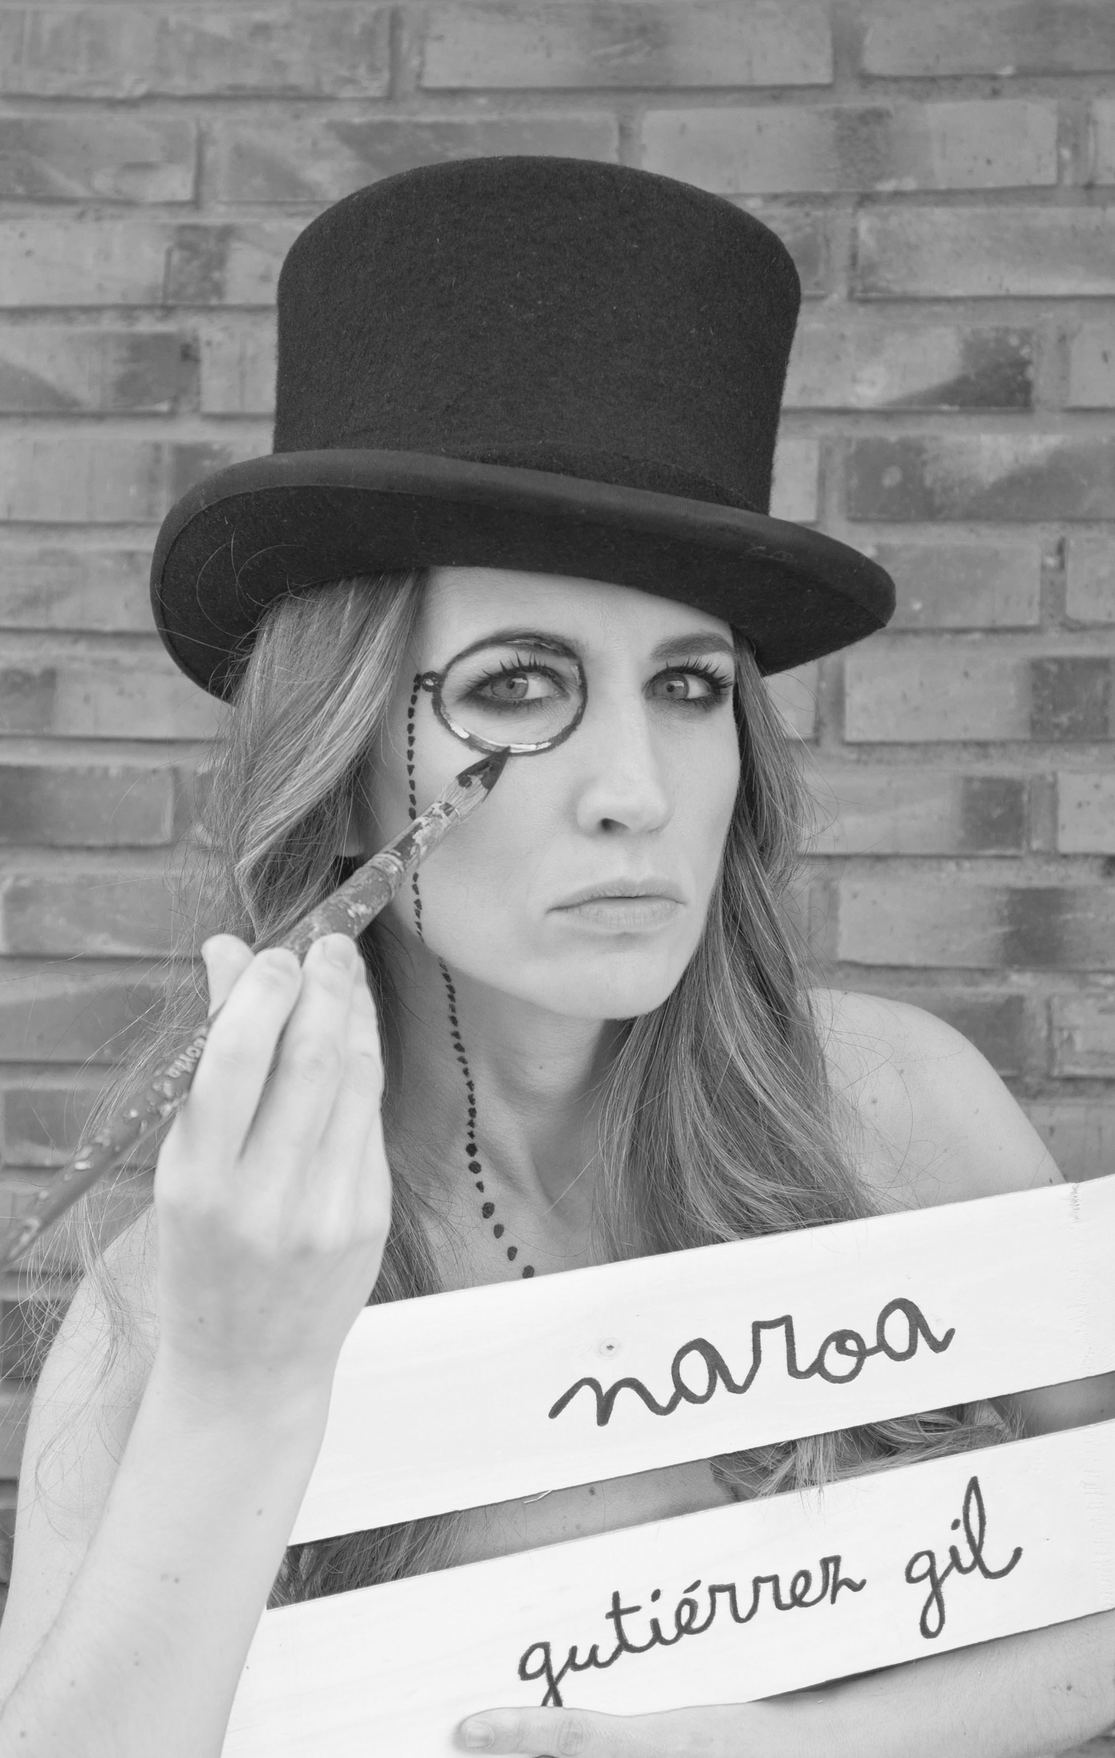
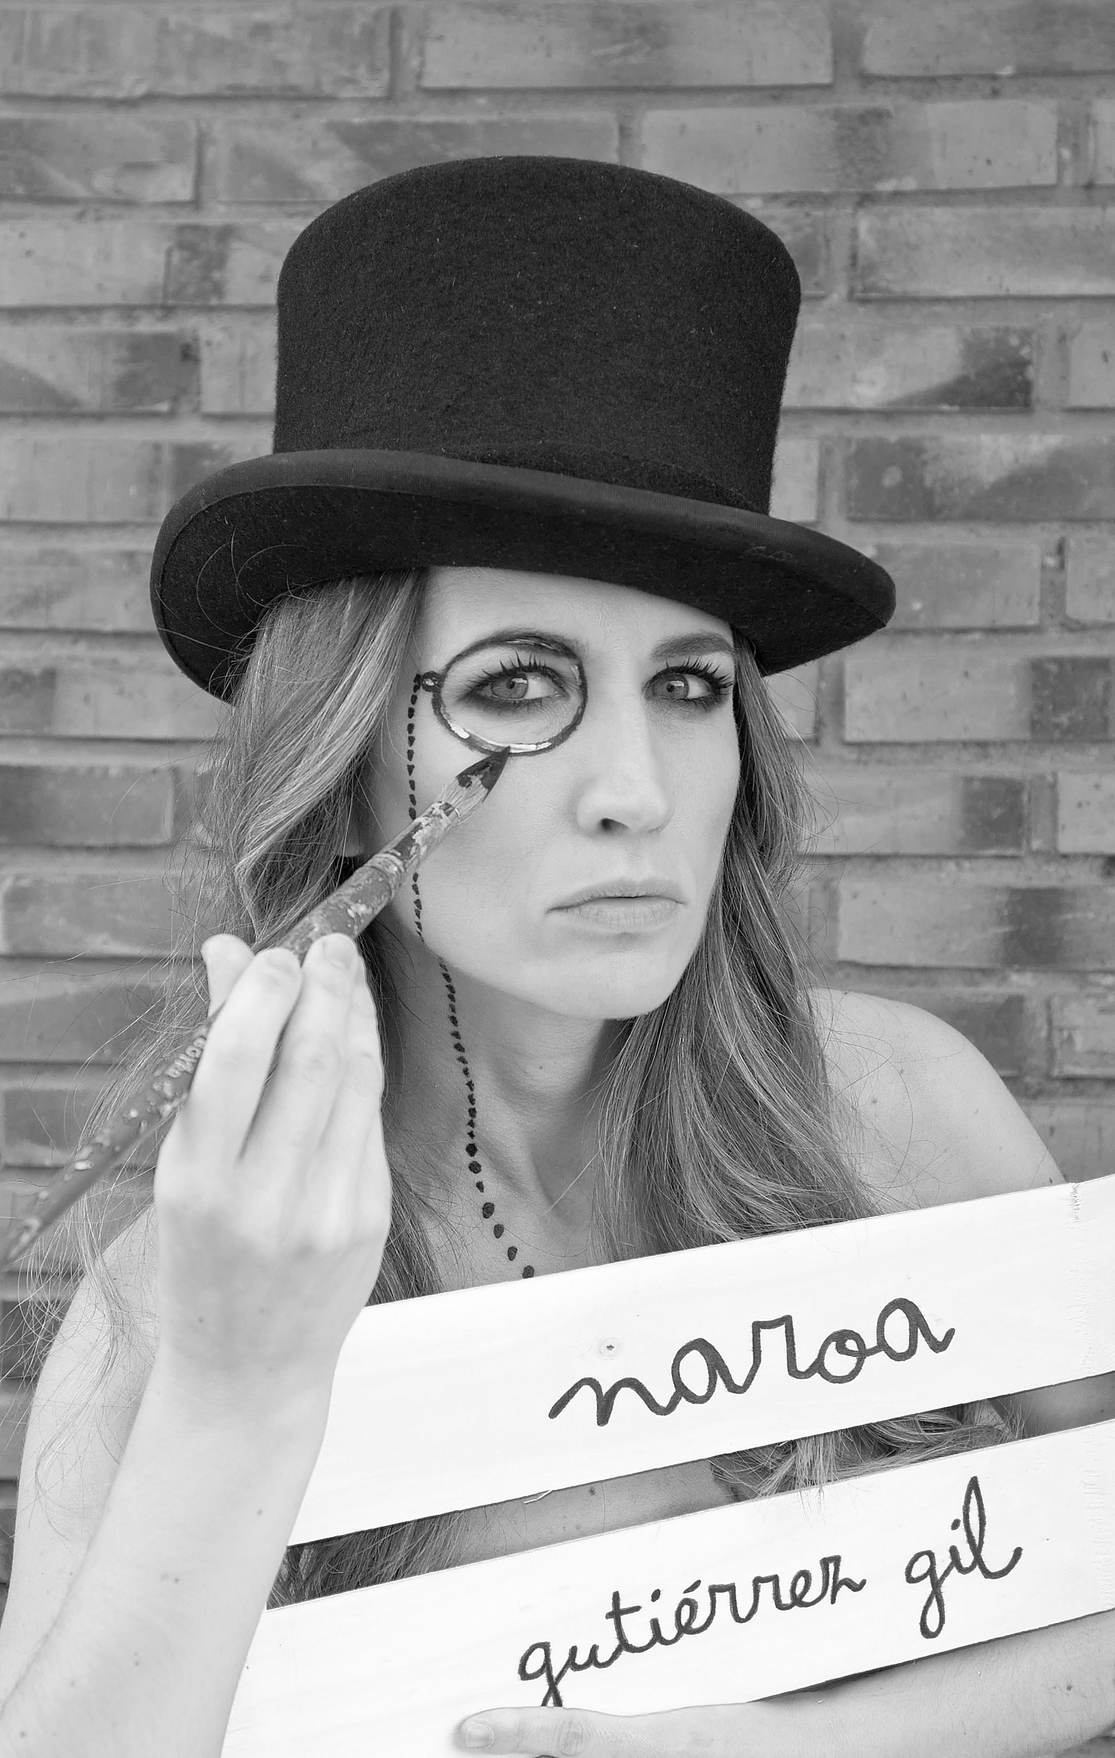
feat(assets): update 4K master portraits and responsive srcset for hero threshold overture

diff --git a/tools/build_immersive_site.py b/tools/build_immersive_site.py
@@ -46,7 +46,7 @@ def build(output):
     jobs = {}
     originals = set()
 
-    def derivative(src, limit=1800, thumb=False):
+    def derivative(src, limit=1800, thumb=False, quality=None):
         source = SOURCE / src.lstrip("/")
         if not source.is_file():
             raise FileNotFoundError(f"Reviewed image missing: {src}")
@@ -54,7 +54,8 @@ def build(output):
         variant = "thumb" if thumb else "view" if limit == 1800 else f"view-{limit}"
         name = f"{source.stem}-{digest}-{variant}.webp"
         dest = media / name
-        jobs[dest] = (source, limit, 72 if thumb else 80)
+        q = quality if quality is not None else (72 if thumb else 88)
+        jobs[dest] = (source, limit, q)
         originals.add(src)
         return "/immersive/media/" + name
 
@@ -104,8 +105,8 @@ def build(output):
         original_order.setdefault(im.get("work_slug", im.get("slug")), len(catalogue["projects"]) + i)
     projects.sort(key=lambda p: (0, first[p["slug"]]) if p["slug"] in first else (1, original_order[p["slug"]]))
     assert len(projects) == len(known)
-    portrait = derivative("/images/sobre-mi/naroa-monoculo.jpg", 3468)
-    portrait_wink = derivative("/images/sobre-mi/naroa-monoculo-guino.png")
+    portrait = derivative("/images/sobre-mi/naroa-monoculo.jpg", 3468, quality=94)
+    portrait_wink = derivative("/images/sobre-mi/naroa-monoculo-guino.png", 3468, quality=94)
     cantinflowers = derivative("/images/trayectoria/cantinflowers.jpg")
     journey = read_data("journey")
     assert [scene["slug"] for scene in journey["scenes"]] == [p["slug"] for p in projects], "Camera score must cover the ordered catalogue exactly"
@@ -315,7 +316,7 @@ def build(output):
         )
         threshold_html = ""
         if path == "/" and initial == 0:
-            threshold_html = f'''<div class="hero-threshold" data-hero-threshold data-threshold-enter aria-hidden="true"><div class="hero-threshold-plane" data-threshold-plane><img class="hero-threshold-portrait" src="{menu_portrait}" width="900" height="1418" alt="Naroa Gutiérrez Gil con chistera y monóculo en el umbral del estudio" decoding="async"><img class="hero-threshold-wink" data-threshold-wink src="{menu_portrait_wink}" width="900" height="1418" alt="Guiño de bienvenida de Naroa Gutiérrez Gil" decoding="async"></div><div class="hero-threshold-shade"></div></div>'''
+            threshold_html = f'''<div class="hero-threshold" data-hero-threshold data-threshold-enter aria-hidden="true"><div class="hero-threshold-plane" data-threshold-plane><img class="hero-threshold-portrait" src="{portrait}" srcset="{menu_portrait} 900w, {portrait} 2201w" sizes="100vw" width="2201" height="3468" alt="Naroa Gutiérrez Gil con chistera y monóculo en el umbral del estudio" fetchpriority="high" decoding="sync"><img class="hero-threshold-wink" data-threshold-wink src="{portrait_wink}" srcset="{menu_portrait_wink} 900w, {portrait_wink} 2201w" sizes="100vw" width="2201" height="3468" alt="Guiño de bienvenida de Naroa Gutiérrez Gil" decoding="async"></div><div class="hero-threshold-shade"></div></div>'''
         body = f'''<main id="main" class="art-scroll" style="--steps:{len(selected)-1}"><section class="art-stage" data-gallery data-initial="{initial}" data-subset="{subset}"><div class="art-layers">{stages}</div>{threshold_html}<div class="art-shade" aria-hidden="true"></div><div class="kinetic-title" data-kinetic-title aria-hidden="true"></div><nav class="art-index" aria-label="Recorrido de obras">{nav}</nav><div class="art-bottom"><div><div data-art-copy aria-live="polite"><p class="art-counter"><span data-counter>{initial+1:02d} / {len(selected):02d}</span><small data-journey-cue>Desplázate para recorrer ↕</small></p><h1 data-art-title>{esc(p['title'])}</h1><p class="art-material" data-art-material>{esc(p['label'])}</p></div><button type="button" class="art-story-link" data-open-story>Sobre esta obra <span aria-hidden="true">+</span></button></div><div class="art-controls"><div class="art-view-actions"><button type="button" data-effects aria-pressed="false">Activar efectos</button><button type="button" data-fit aria-pressed="false">Ver imagen completa ↗</button><button type="button" data-open-photos>Otras miradas ↗</button><button type="button" class="ouroboros-loop-btn" data-ouroboros hidden aria-label="Volver al origen de la exposición">Volver al origen ↺</button></div><div class="art-arrows"><button type="button" data-prev aria-label="Obra anterior"{' disabled' if initial==0 else ''}>←</button><button type="button" data-next aria-label="Obra siguiente"{' disabled' if initial==len(selected)-1 else ''}>→</button></div></div></div><button type="button" class="restore-ui" data-restore hidden>Volver a la navegación ↙</button><div class="art-progress" aria-hidden="true"><span></span></div></section></main>
 <dialog id="story-dialog" class="story-dialog" aria-labelledby="story-title"><div class="dialog-top"><span data-story-category>{esc(p['label'])}</span><button type="button" data-close-dialog>Cerrar ×</button></div><div class="story-body"><h2 id="story-title">{esc(p['title'])}</h2><p data-story>{esc(p['story'])}</p><dl data-facts>{facts_html}</dl><p class="art-credit" data-credit>{esc(p['credit'] or '')}</p><div class="story-actions"><a class="text-link" data-art-email href="mailto:naroa@naroa.eu?subject={quote('Consulta sobre '+p['title'])}">Consultar por email ↗</a><a class="text-link" data-art-whatsapp href="https://wa.me/34636060609?text={quote('Hola Naroa, me gustaría consultar sobre la obra ' + p['title'])}" target="_blank" rel="noopener noreferrer">Consultar por WhatsApp ↗</a><button type="button" class="text-link" data-share-link>Compartir enlace directo ↗</button></div><a class="source-link" data-art-video{' hidden' if not p.get('video') else ''} href="{esc(p.get('video') or '')}" target="_blank" rel="noopener noreferrer">Ver proceso en YouTube ↗</a><a class="source-link" data-art-source{' hidden' if not p['source'] else ''} href="{esc(p['source'] or '')}" target="_blank" rel="noopener noreferrer">Ver publicación de la artista ↗</a></div><a class="story-footer" href="/retratos-por-encargo-bilbao/">Tu propio retrato empieza aquí ↗</a></dialog>
 <dialog id="photos-dialog" class="photos-dialog" aria-labelledby="photos-heading"><div class="dialog-top"><span id="photos-heading">{esc(p['title'])}</span><button type="button" data-close-dialog>Cerrar ×</button></div><div class="photo-view"><button type="button" data-photo-prev aria-label="Fotografía anterior">←</button><img data-photo-image data-src="{p['photos'][0]['src']}" alt="{esc(work_alt(p, p['photos'][0]['caption']))}" decoding="async"><button type="button" data-photo-next aria-label="Fotografía siguiente">→</button></div><p data-photo-caption aria-live="polite"></p></dialog>'''
@@ -693,90 +694,110 @@ def build(output):
     commissions += f'''<article class="editorial" id="contenido"><section class="chapter"><p class="eyebrow">Retrato de autor a partir de tu historia</p><div><h2>Más allá de<br>una fotografía.</h2><p class="lead">Encarga un retrato personalizado en Bilbao con Naroa Gutiérrez Gil a partir de tu historia o fotografías. Obras originales de autor sobre pizarra natural, collage, madera y objetos intervenidos, con presupuesto cerrado previo y entrega local en mano o envío protegido.</p><p>Puedes partir de una fotografía, un recuerdo o un objeto con significado para encargar una pieza hecha a mano y pensada para quien la recibe. Es una práctica de retrato que continúa la exploración iniciada en muestras individuales en Bilbao como <em>Espejos del alma</em> (Colegio de Abogados de Bilbao), valorando en el taller el soporte que mejor cuente esa historia: pizarra con contornos naturales, composiciones de dibujo y tela vaquera, o cajas de madera personalizadas.</p></div></section><section class="commission-examples-section" aria-labelledby="commission-examples-heading"><div class="section-opening"><p class="eyebrow">Soportes reales del catálogo</p><h2 id="commission-examples-heading">Tres maneras de dar<br>forma a un retrato.</h2><p>Cada pieza cuenta con fotografías de conjunto, ángulo y detalle real del soporte en el archivo de Naroa.</p></div><div class="commission-examples">{examples_html}</div></section><section class="chapter" aria-labelledby="commission-specs-heading"><p class="eyebrow">Ficha técnica de encargos</p><div><h2 id="commission-specs-heading">Materiales, formatos<br>y condiciones reales.</h2>{specs_html}</div></section><section class="commission-steps" aria-label="Proceso de encargo"><article><span>01</span><h3>Me cuentas tu idea y tu foto.</h3><p>A quién quieres retratar, si es para regalar y qué historia u objetos le definen. Puedes adjuntar fotografías de referencia.</p></article><article><span>02</span><h3>Propuesta, materiales y presupuesto.</h3><p>Acordamos técnica, formato, orientación de precio y plazo de entrega antes de comenzar la obra.</p></article><article><span>03</span><h3>El retrato cobra vida en el estudio.</h3><p>Compartimos imágenes del proceso mientras el dibujo, la pizarra o el collage van tomando forma.</p></article><article><span>04</span><h3>Entrega en Bilbao o envío.</h3><p>Acordamos la entrega en mano en Bilbao y Bizkaia o el envío preparado según el soporte y los materiales.</p></article></section>{configurator_html}<section class="commission-faq" aria-labelledby="commission-faq-heading"><div class="section-opening"><p class="eyebrow">Dudas frecuentes antes de encargar</p><h2 id="commission-faq-heading">Precios, fotos<br>y plazos.</h2></div><div class="commission-faq-list">{faq_html}</div></section><div class="closing"><p class="hand">¿A quién te gustaría retratar?</p><a class="text-link" href="https://wa.me/34636060609?text=Hola%20Naroa%2C%20me%20gustar%C3%ADa%20consultar%20un%20retrato%20personalizado%20por%20encargo." target="_blank" rel="noopener noreferrer">Hablar por WhatsApp directo ↗</a><a class="text-link" href="mailto:naroa@naroa.eu?subject=Solicitud%20de%20presupuesto%20para%20retrato%20por%20encargo">Solicitar presupuesto por email ↗</a><a class="text-link" href="/obra/#indice">Explorar las {len(projects)} obras del catálogo ↗</a></div></article>'''
     commissions_schema = {
         "@context": "https://schema.org",
-        "@type": ["Service", "ProfessionalService"],
-        "@id": ORIGIN + "/retratos-por-encargo-bilbao/#service",
-        "name": "Retratos personalizados por encargo en Bilbao y Bizkaia",
-        "serviceType": "Retratos artísticos de autor sobre pizarra, collage, madera y objetos",
-        "url": ORIGIN + "/retratos-por-encargo-bilbao/",
-        "inLanguage": "es-ES",
-        "dateModified": catalogue["reviewed"],
-        "description": "Encarga un retrato personalizado en Bilbao con Naroa Gutiérrez Gil. Piezas originales hechas a mano a partir de fotografía e historia personal: pizarra natural, collage, madera y técnica mixta con presupuesto cerrado previo.",
-        "image": [ORIGIN + ex["photos"][0]["original"] for ex, _, _ in commission_examples],
-        "provider": {
-            "@type": "Person",
-            "@id": ORIGIN + "/#artist",
-            "name": "Naroa Gutiérrez Gil",
-            "jobTitle": "Artista plástica y retratista",
-            "url": ORIGIN + "/",
-            "sameAs": artist_same_as,
-            "homeLocation": bilbao_place,
-        },
-        "providerMobility": "dynamic",
-        "address": {
-            "@type": "PostalAddress",
-            "addressLocality": "Bilbao",
-            "addressRegion": "Bizkaia",
-            "addressCountry": "ES",
-        },
-        "geo": {
-            "@type": "GeoCoordinates",
-            "latitude": 43.2630,
-            "longitude": -2.9350,
-        },
-        "hasMap": "https://www.google.com/maps?q=Bilbao,+Bizkaia",
-        "areaServed": [
-            {"@type": "City", "name": "Bilbao", "sameAs": "https://es.wikipedia.org/wiki/Bilbao"},
-            {"@type": "AdministrativeArea", "name": "Bizkaia", "sameAs": "https://es.wikipedia.org/wiki/Vizcaya"},
-            {"@type": "Country", "name": "España", "sameAs": "https://es.wikipedia.org/wiki/Espa%C3%B1a"},
-        ],
-        "knowsAbout": [
-            "Retrato sobre pizarra natural rústica",
-            "Técnica mixta con escamas de mica mineral y esmalte",
-            "Collage contemporáneo y textil sobre madera",
-            "Retrato al óleo y dibujo a lápiz",
-            "Cajas personalizadas y objetos intervenidos",
-        ],
-        "hasOfferCatalog": {
-            "@type": "OfferCatalog",
-            "name": "Formatos y técnicas de retratos personalizados",
-            "itemListElement": [
-                {
-                    "@type": "Offer",
-                    "itemOffered": {
-                        "@type": "Service",
-                        "name": "Retrato sobre pizarra natural de cantera",
-                        "description": "Retrato artístico en técnica mixta (acrílico, mica y esmaltes) sobre plato rústico de pizarra natural (formatos habituales de 20×30 cm a 40×50 cm).",
-                    },
-                },
-                {
-                    "@type": "Offer",
-                    "itemOffered": {
-                        "@type": "Service",
-                        "name": "Retrato en dibujo, textil y collage",
-                        "description": "Composición de autor con dibujo a grafito/pastel, telas, costuras y elementos biográficos sobre madera noble o soporte rígido.",
-                    },
-                },
-                {
-                    "@type": "Offer",
-                    "itemOffered": {
-                        "@type": "Service",
-                        "name": "Caja personalizada u objeto intervenido",
-                        "description": "Objeto tridimensional de recuerdo con retrato integrado y elementos de memoria familiar en madera tratada.",
-                    },
-                },
-            ],
-        },
-        "termsOfService": "Propuesta y presupuesto cerrado previo por escrito sin compromiso. Plazo habitual de 2 a 4 semanas según secado de materiales. Entrega en mano en Bilbao o envío asegurado.",
-        "potentialAction": [
+        "@graph": [
             {
-                "@type": "CommunicateAction",
-                "name": "Solicitar presupuesto de retrato por email",
-                "target": "mailto:naroa@naroa.eu?subject=Solicitud%20de%20presupuesto%20para%20retrato%20por%20encargo",
+                "@type": ["Service", "ProfessionalService"],
+                "@id": ORIGIN + "/retratos-por-encargo-bilbao/#service",
+                "name": "Retratos personalizados por encargo en Bilbao y Bizkaia",
+                "serviceType": "Retratos artísticos de autor sobre pizarra, collage, madera y objetos",
+                "url": ORIGIN + "/retratos-por-encargo-bilbao/",
+                "inLanguage": "es-ES",
+                "dateModified": catalogue["reviewed"],
+                "description": "Encarga un retrato personalizado en Bilbao con Naroa Gutiérrez Gil. Piezas originales hechas a mano a partir de fotografía e historia personal: pizarra natural, collage, madera y técnica mixta con presupuesto cerrado previo.",
+                "image": [ORIGIN + ex["photos"][0]["original"] for ex, _, _ in commission_examples],
+                "provider": {
+                    "@type": "Person",
+                    "@id": ORIGIN + "/#artist",
+                    "name": "Naroa Gutiérrez Gil",
+                    "jobTitle": "Artista plástica y retratista",
+                    "url": ORIGIN + "/",
+                    "sameAs": artist_same_as,
+                    "homeLocation": bilbao_place,
+                },
+                "providerMobility": "dynamic",
+                "address": {
+                    "@type": "PostalAddress",
+                    "addressLocality": "Bilbao",
+                    "addressRegion": "Bizkaia",
+                    "addressCountry": "ES",
+                },
+                "geo": {
+                    "@type": "GeoCoordinates",
+                    "latitude": 43.2630,
+                    "longitude": -2.9350,
+                },
+                "hasMap": "https://www.google.com/maps?q=Bilbao,+Bizkaia",
+                "areaServed": [
+                    {"@type": "City", "name": "Bilbao", "sameAs": "https://es.wikipedia.org/wiki/Bilbao"},
+                    {"@type": "AdministrativeArea", "name": "Bizkaia", "sameAs": "https://es.wikipedia.org/wiki/Vizcaya"},
+                    {"@type": "Country", "name": "España", "sameAs": "https://es.wikipedia.org/wiki/Espa%C3%B1a"},
+                ],
+                "knowsAbout": [
+                    "Retrato sobre pizarra natural rústica",
+                    "Técnica mixta con escamas de mica mineral y esmalte",
+                    "Collage contemporáneo y textil sobre madera",
+                    "Retrato al óleo y dibujo a lápiz",
+                    "Cajas personalizadas y objetos intervenidos",
+                ],
+                "hasOfferCatalog": {
+                    "@type": "OfferCatalog",
+                    "name": "Formatos y técnicas de retratos personalizados",
+                    "itemListElement": [
+                        {
+                            "@type": "Offer",
+                            "itemOffered": {
+                                "@type": "Service",
+                                "name": "Retrato sobre pizarra natural de cantera",
+                                "description": "Retrato artístico en técnica mixta (acrílico, mica y esmaltes) sobre plato rústico de pizarra natural (formatos habituales de 20×30 cm a 40×50 cm).",
+                            },
+                        },
+                        {
+                            "@type": "Offer",
+                            "itemOffered": {
+                                "@type": "Service",
+                                "name": "Retrato en dibujo, textil y collage",
+                                "description": "Composición de autor con dibujo a grafito/pastel, telas, costuras y elementos biográficos sobre madera noble o soporte rígido.",
+                            },
+                        },
+                        {
+                            "@type": "Offer",
+                            "itemOffered": {
+                                "@type": "Service",
+                                "name": "Caja personalizada u objeto intervenido",
+                                "description": "Objeto tridimensional de recuerdo con retrato integrado y elementos de memoria familiar en madera tratada.",
+                            },
+                        },
+                    ],
+                },
+                "termsOfService": "Propuesta y presupuesto cerrado previo por escrito sin compromiso. Plazo habitual de 2 a 4 semanas según secado de materiales. Entrega en mano en Bilbao o envío asegurado.",
+                "potentialAction": [
+                    {
+                        "@type": "CommunicateAction",
+                        "name": "Solicitar presupuesto de retrato por email",
+                        "target": "mailto:naroa@naroa.eu?subject=Solicitud%20de%20presupuesto%20para%20retrato%20por%20encargo",
+                    },
+                    {
+                        "@type": "CommunicateAction",
+                        "name": "Consultar encargo por WhatsApp directo",
+                        "target": "https://wa.me/34636060609?text=Hola%20Naroa%2C%20me%20gustar%C3%ADa%20consultar%20un%20encargo%20de%20retrato%20personalizado%20por%20encargo.",
+                    },
+                ],
             },
             {
-                "@type": "CommunicateAction",
-                "name": "Consultar encargo por WhatsApp directo",
-                "target": "https://wa.me/34636060609?text=Hola%20Naroa%2C%20me%20gustar%C3%ADa%20consultar%20un%20retrato%20personalizado%20por%20encargo.",
+                "@type": "FAQPage",
+                "@id": ORIGIN + "/retratos-por-encargo-bilbao/#faq",
+                "isPartOf": {"@id": ORIGIN + "/retratos-por-encargo-bilbao/#service"},
+                "mainEntity": [
+                    {
+                        "@type": "Question",
+                        "name": q,
+                        "acceptedAnswer": {
+                            "@type": "Answer",
+                            "text": a,
+                        },
+                    }
+                    for q, a in commission_faqs
+                ],
             },
         ],
     }
@@ -850,17 +871,34 @@ def build(output):
         "Allow: /\n\n"
         "User-agent: Applebot-Extended\n"
         "Allow: /\n\n"
+        "User-agent: cohere-ai\n"
+        "Allow: /\n\n"
+        "User-agent: Meta-ExternalAgent\n"
+        "Allow: /\n\n"
         "User-agent: GPTBot\n"
         "Disallow: /\n\n"
         "User-agent: CCBot\n"
         "Disallow: /\n\n"
         "User-agent: Google-Extended\n"
         "Disallow: /\n\n"
+        "User-agent: Bytespider\n"
+        "Disallow: /\n\n"
+        "User-agent: anthropic-ai\n"
+        "Disallow: /\n\n"
+        "User-agent: Amazonbot\n"
+        "Disallow: /\n\n"
         "User-agent: *\n"
         "Allow: /\n"
         "Disallow: /test/\n"
-        "Disallow: /assets/backup_pre4k/\n\n"
-        "Sitemap: " + ORIGIN + "/sitemap.xml\n"
+        "Disallow: /assets/backup_*/\n\n"
+        "Sitemap: " + ORIGIN + "/sitemap.xml\n\n"
+        "# LLM Knowledge Graph & Discovery Directives (GEO SOTA 2026)\n"
+        "# Concise summary for LLM context windows:\n"
+        f"# {ORIGIN}/llms.txt\n"
+        "# Comprehensive catalogue and technical specifications:\n"
+        f"# {ORIGIN}/llms-full.txt\n"
+        "# Structured JSON catalog endpoint:\n"
+        f"# {ORIGIN}/api/catalog.json\n"
     )
     sitemap_xml = '<?xml version="1.0" encoding="UTF-8"?>\n<urlset xmlns="http://www.sitemaps.org/schemas/sitemap/0.9" xmlns:image="http://www.google.com/schemas/sitemap-image/1.1">' + ''.join(sitemap_entries) + '</urlset>\n'
     write(output / "robots.txt", robots_content)
